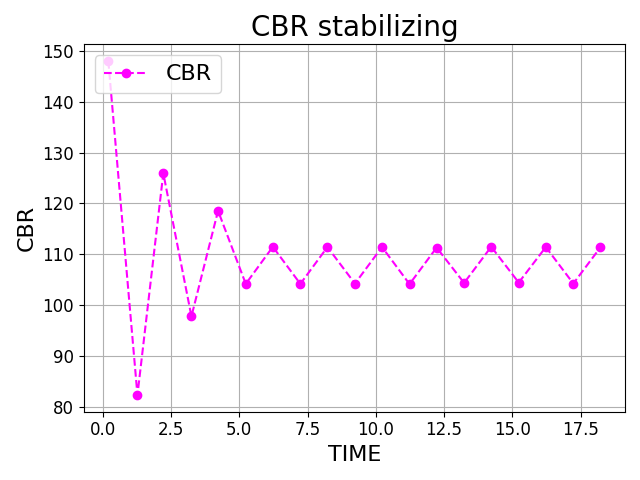
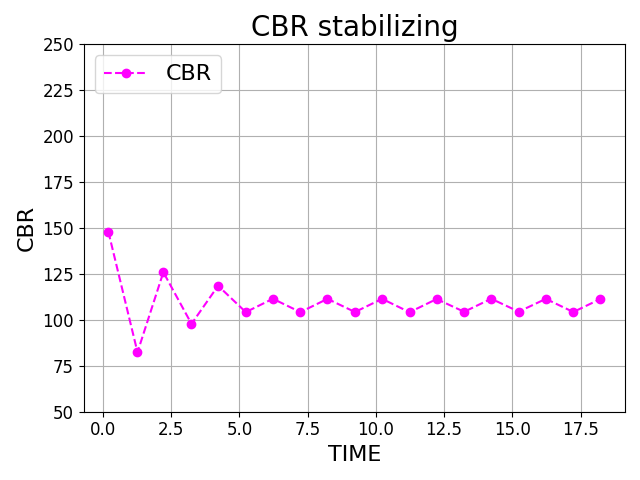
graph y range change

diff --git a/scratch/V2X_100_0.08.cc b/scratch/V2X_100_0.08.cc
@@ -157,7 +157,7 @@ void ReceivePacket_BSM (Ptr<Socket> socket)
       else if (rsu.cycle_num == OBU_NODE-1)
       {
           rsu.time = Simulator::Now ().GetSeconds ();
-          time_diff = rsu.time - rsu.prev_time; // 이전 bsm 받은 시간에서 현재 bsm 받을때까지 걸린 시간
+          time_diff = rsu.time - rsu.prev_time; // 이전 bsm 받은 시간에서 현재 bsm 받기를 위해서 rsu가 대기를 시작한 시간
           std::cout << Simulator::Now ().GetSeconds () << "s>> Time taken from BSM transmission to arrival: "<< time_diff <<  "[s]" << std::endl;
 
           // std::cout << recv_itt_data << std::endl;

diff --git a/V2X_python_graph/V2X_500_0.08/V2X_500_0.08_CBR.py b/V2X_python_graph/V2X_500_0.08/V2X_500_0.08_CBR.py
@@ -29,6 +29,8 @@ plt.plot(BSM_TIMEs, CBRs, color='magenta', marker='o', linestyle='dashed', label
 plt.title("CBR stabilizing", fontsize=20)
 plt.xlabel("TIME", fontsize=16)
 plt.ylabel("CBR", fontsize=16)
+plt.ylim([50, 250])
+plt.ylim([50, 250])
 plt.xticks(fontsize=12)
 plt.yticks(fontsize=12)
 plt.tight_layout()

diff --git a/V2X_python_graph/V2X_100_0.08/V2X_100_0.08_CBR.py b/V2X_python_graph/V2X_100_0.08/V2X_100_0.08_CBR.py
@@ -29,6 +29,7 @@ plt.plot(BSM_TIMEs, CBRs, color='magenta', marker='o', linestyle='dashed', label
 plt.title("CBR stabilizing", fontsize=20)
 plt.xlabel("TIME", fontsize=16)
 plt.ylabel("CBR", fontsize=16)
+plt.ylim([50, 250]) #y축 범위 설정
 plt.xticks(fontsize=12)
 plt.yticks(fontsize=12)
 plt.grid(True)

diff --git a/V2X_python_graph/V2X_100_0.08/V2X_100_0.08_ITT.py b/V2X_python_graph/V2X_100_0.08/V2X_100_0.08_ITT.py
@@ -29,6 +29,7 @@ plt.plot(WSA_recieved_TIMEs, ITTs, color='blue', marker='o', linestyle='dashed',
 plt.title("ITT stabilizing", fontsize=20)
 plt.xlabel("TIME", fontsize=16)
 plt.ylabel("ITT", fontsize=16)
+plt.ylim([0.07, 0.17])
 plt.xticks(fontsize=12)
 plt.yticks(fontsize=12)
 plt.tight_layout()

diff --git a/V2X_python_graph/V2X_100_0.16/V2X_100_0.16_ITT.py b/V2X_python_graph/V2X_100_0.16/V2X_100_0.16_ITT.py
@@ -29,6 +29,7 @@ plt.plot(WSA_recieved_TIMEs, ITTs, color='blue', marker='o', linestyle='dashed',
 plt.title("ITT stabilizing", fontsize=20)
 plt.xlabel("TIME", fontsize=16)
 plt.ylabel("ITT", fontsize=16)
+plt.ylim([0.07, 0.17])
 plt.xticks(fontsize=12)
 plt.yticks(fontsize=12)
 plt.tight_layout()

diff --git a/V2X_python_graph/V2X_200_0.08/V2X_200_0.08_ITT.py b/V2X_python_graph/V2X_200_0.08/V2X_200_0.08_ITT.py
@@ -29,6 +29,7 @@ plt.plot(WSA_recieved_TIMEs, ITTs, color='blue', marker='o', linestyle='dashed',
 plt.title("ITT stabilizing", fontsize=20)
 plt.xlabel("TIME", fontsize=16)
 plt.ylabel("ITT", fontsize=16)
+plt.ylim([0.07, 0.17])
 plt.xticks(fontsize=12)
 plt.yticks(fontsize=12)
 plt.tight_layout()

diff --git a/V2X_python_graph/V2X_200_0.16/V2X_200_0.16_ITT.py b/V2X_python_graph/V2X_200_0.16/V2X_200_0.16_ITT.py
@@ -29,6 +29,7 @@ plt.plot(WSA_recieved_TIMEs, ITTs, color='blue', marker='o', linestyle='dashed',
 plt.title("ITT stabilizing", fontsize=20)
 plt.xlabel("TIME", fontsize=16)
 plt.ylabel("ITT", fontsize=16)
+plt.ylim([0.07, 0.17])
 plt.xticks(fontsize=12)
 plt.yticks(fontsize=12)
 plt.tight_layout()

diff --git a/V2X_python_graph/V2X_300_0.08/V2X_300_0.08_ITT.py b/V2X_python_graph/V2X_300_0.08/V2X_300_0.08_ITT.py
@@ -29,6 +29,7 @@ plt.plot(WSA_recieved_TIMEs, ITTs, color='blue', marker='o', linestyle='dashed',
 plt.title("ITT stabilizing", fontsize=20)
 plt.xlabel("TIME", fontsize=16)
 plt.ylabel("ITT", fontsize=16)
+plt.ylim([0.07, 0.17])
 plt.xticks(fontsize=12)
 plt.yticks(fontsize=12)
 plt.tight_layout()

diff --git a/V2X_python_graph/V2X_300_0.16/V2X_300_0.16_ITT.py b/V2X_python_graph/V2X_300_0.16/V2X_300_0.16_ITT.py
@@ -29,6 +29,7 @@ plt.plot(WSA_recieved_TIMEs, ITTs, color='blue', marker='o', linestyle='dashed',
 plt.title("ITT stabilizing", fontsize=20)
 plt.xlabel("TIME", fontsize=16)
 plt.ylabel("ITT", fontsize=16)
+plt.ylim([0.07, 0.17])
 plt.xticks(fontsize=12)
 plt.yticks(fontsize=12)
 plt.tight_layout()

diff --git a/V2X_python_graph/V2X_400_0.08/V2X_400_0.08_ITT.py b/V2X_python_graph/V2X_400_0.08/V2X_400_0.08_ITT.py
@@ -29,6 +29,7 @@ plt.plot(WSA_recieved_TIMEs, ITTs, color='blue', marker='o', linestyle='dashed',
 plt.title("ITT stabilizing", fontsize=20)
 plt.xlabel("TIME", fontsize=16)
 plt.ylabel("ITT", fontsize=16)
+plt.ylim([0.07, 0.17])
 plt.xticks(fontsize=12)
 plt.yticks(fontsize=12)
 plt.tight_layout()

diff --git a/V2X_python_graph/V2X_400_0.16/V2X_400_0.16_ITT.py b/V2X_python_graph/V2X_400_0.16/V2X_400_0.16_ITT.py
@@ -29,6 +29,7 @@ plt.plot(WSA_recieved_TIMEs, ITTs, color='blue', marker='o', linestyle='dashed',
 plt.title("ITT stabilizing", fontsize=20)
 plt.xlabel("TIME", fontsize=16)
 plt.ylabel("ITT", fontsize=16)
+plt.ylim([0.07, 0.17])
 plt.xticks(fontsize=12)
 plt.yticks(fontsize=12)
 plt.tight_layout()

diff --git a/V2X_python_graph/V2X_500_0.08/V2X_500_0.08_ITT.py b/V2X_python_graph/V2X_500_0.08/V2X_500_0.08_ITT.py
@@ -29,6 +29,7 @@ plt.plot(WSA_recieved_TIMEs, ITTs, color='blue', marker='o', linestyle='dashed',
 plt.title("ITT stabilizing", fontsize=20)
 plt.xlabel("TIME", fontsize=16)
 plt.ylabel("ITT", fontsize=16)
+plt.ylim([0.07, 0.17])
 plt.xticks(fontsize=12)
 plt.yticks(fontsize=12)
 plt.tight_layout()
